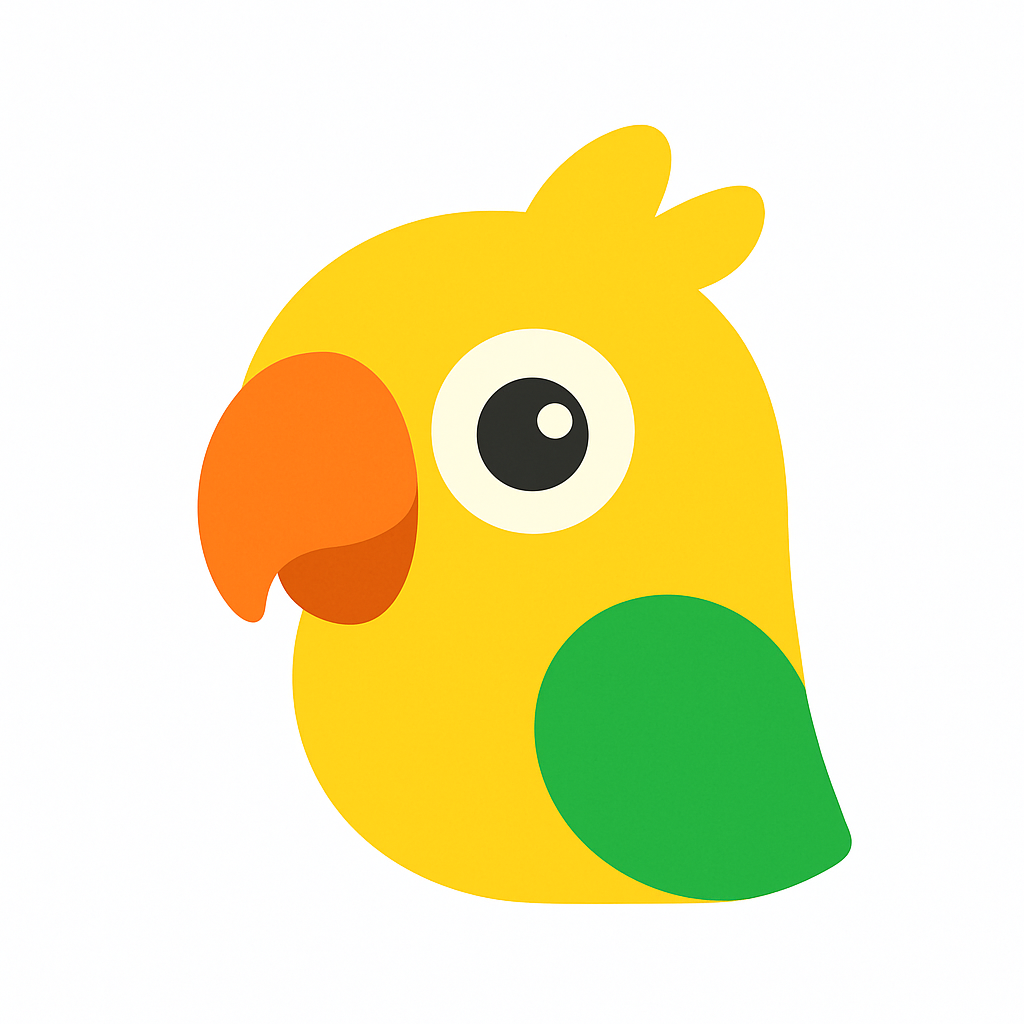
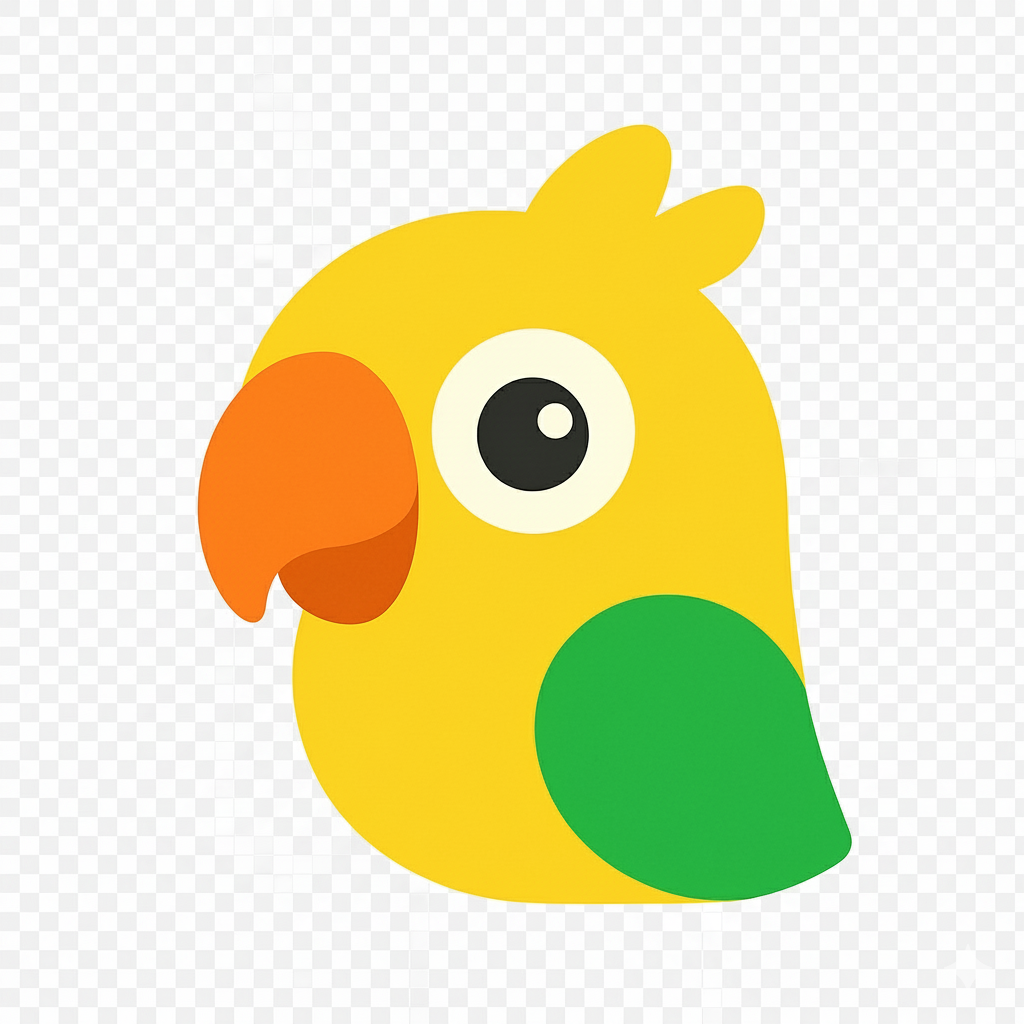
feat: 스몰토크 백엔드 연결

Changed region(s): [[0.625, 0.1875, 0.6562, 0.2188], [0.4062, 0.4375, 0.4375, 0.4688]]

diff --git a/src/styles/components/Header.module.scss b/src/styles/components/Header.module.scss
@@ -1,26 +1,46 @@
 @use "../global.scss";
 
 /* LeftLayout 헤더 */
-.logo {
-  width: 48px;
-  height: 48px;
-  background-image: url("../../asset/tropical-bird.png");
-  background-size: contain;
-  margin-bottom: var(--text-2xl);
-}
+.leftHeader {
+  position: relative;
 
-.title {
-  font-size: var(--text-3xl);
-  font-weight: var(--font-regular);
-
-  .userName {
-    font-weight: var(--font-extrabold);
+  .logo {
+    width: 48px;
+    height: 48px;
+    background-image: url("../../asset/tropical-bird.png");
+    background-size: contain;
+    margin-bottom: var(--text-2xl);
   }
-}
 
-.desc {
-  padding-top: var(--text-xs);
-  color: var(--text-secondary);
+  .title {
+    font-size: var(--text-3xl);
+    font-weight: var(--font-regular);
+
+    .userName {
+      font-weight: var(--font-extrabold);
+    }
+  }
+
+  .desc {
+    padding-top: var(--text-xs);
+    color: var(--text-secondary);
+  }
+
+  button {
+    position: absolute;
+    top: 0;
+    right: 0;
+    width: 48px;
+    height: 48px;
+    background-color: transparent;
+
+    svg {
+      width: 24px;
+      height: 24px;
+      color: #000000;
+    }
+  }
+
 }
 
 /* RightLayout 헤더 */

diff --git a/src/components/smalltalk/SmallTalkItem.jsx b/src/components/smalltalk/SmallTalkItem.jsx
@@ -1,16 +1,36 @@
 import React from 'react';
 import {desc, smallTalk} from '../../styles/components/SmallTalkItem.module.scss';
 import defaultIcon from '../../asset/tropical-bird.png';
+import dailyIcon from '../../asset/toss-sun.png';
+import creativeIcon from '../../asset/toss-idea.png';
+import thoughtIcon from '../../asset/toss-thought.png';
+import foodIcon from '../../asset/toss-food.png';
 
-const SmallTalkItem = () => {
+const SmallTalkItem = ({content, question, type}) => {
+
+
+
+    const topicStyles = {
+        DAILY: { icon: `${dailyIcon}`, color: '#FFF2E1' },
+        INTEREST: { icon: `${dailyIcon}`, color: '#E1F5F7' },
+        FOOD: { icon: `${foodIcon}`, color: '#FFE8F1' },
+        CREATIVE: { icon: `${creativeIcon}`, color: '#F2E8FF' },
+        THOUGHT: { icon: `${thoughtIcon}`, color: '#E8F7E1' },
+        DEFAULT: { icon:`${defaultIcon}`, color: '#FFF2E1' }
+    };
+
+    const currentStyle = topicStyles[type] || topicStyles.DEFAULT;
+    const icon = currentStyle.icon;
+
+
     return (
-        <>
+        <li style={{ backgroundColor: currentStyle.color }}>
             <i>
-                <img src={defaultIcon} alt={`트로피칼 새`}/>
+                <img src={icon} alt={`${type} icon`} />
             </i>
-            <p className={desc}>회의를 위한 주제 추천!</p>
-            <p className={smallTalk}>회의전 커피 한 잔 어떠세요?</p>
-        </>
+            <p className={desc}>{content}</p>
+            <p className={smallTalk}>{question}</p>
+        </li>
     );
 };
 

diff --git a/src/hooks/smalltalk/useSmalltalk.js b/src/hooks/smalltalk/useSmalltalk.js
@@ -1,0 +1,32 @@
+import {useCallback, useState} from "react";
+import {apiMethods} from "../../services/api.js";
+
+export const useSmalltalk = () => {
+    const [smallTalkData, setSmallTalkData] = useState([]);
+
+    const fetchSmalltalk = useCallback(async () => {
+        try {
+            const res = await apiMethods.get('/smalltalk');
+            if (res.data.success) {
+                const data = res.data.data.topics || [];
+                setSmallTalkData(data);
+            } else {
+                console.warn('API 호출 실패 메시지:', res.data.message);
+            }
+        } catch (err) {
+            if (err.response) {
+                const { status, data } = err.response;
+                if (status === 401) {
+                    console.warn('로그인 필요:', data?.message);
+                } else {
+                    console.error('서버 에러:', status, data?.message);
+                }
+            } else {
+                console.error('네트워크 에러 또는 요청 실패', err);
+            }
+        }
+    }, []);
+
+    return { smallTalkData, fetchSmalltalk };
+};
+

diff --git a/src/layouts/LeftLayout.jsx b/src/layouts/LeftLayout.jsx
@@ -1,15 +1,33 @@
-import React from 'react';
+import React, {useEffect} from 'react';
 import LeftHeader from "../components/common/LeftHeader.jsx";
-import {leftLayout, container} from '../styles/layouts/Layout.module.scss';
+import {container, leftLayout} from '../styles/layouts/Layout.module.scss';
 import SmallTalkList from "../components/smalltalk/SmallTalkList.jsx";
 import Tips from "../components/smalltalk/Tips.jsx";
+import {useSmalltalk} from "../hooks/smalltalk/useSmalltalk.js";
+import useAuthStore from "../store/authStore.js";
 
 const LeftLayout = () => {
+    const {smallTalkData, fetchSmalltalk} = useSmalltalk();
+    const nickname = useAuthStore(state => state.user?.nickname);
+
+    useEffect(() => {
+        fetchSmalltalk();
+        const intervalId = setInterval(() => {
+            try {
+                fetchSmalltalk();
+                console.log("새로운 주제 로드!");
+                console.log(smallTalkData)
+            } catch (e) {
+                console.error("fetch 실패:", e);
+            }}, 60000);
+        return () => clearInterval(intervalId);
+    }, [fetchSmalltalk]);
+
     return (
         <div className={leftLayout}>
-            <LeftHeader />
+            <LeftHeader name={nickname}/>
             <div className={container}>
-                <SmallTalkList />
+                <SmallTalkList talks= {smallTalkData}/>
                 <Tips />
             </div>
         </div>

diff --git a/src/components/smalltalk/SmallTalkList.jsx b/src/components/smalltalk/SmallTalkList.jsx
@@ -2,18 +2,16 @@ import React from 'react';
 import SmallTalkItem from "./SmallTalkItem.jsx";
 import { container } from "../../styles/components/SmallTalkList.module.scss";
 
-const SmallTalkList = () => {
+const SmallTalkList = ({talks}) => {
     return (
         <ul className={container}>
-            <li>
-                <SmallTalkItem />
-            </li>
-            <li>
-                <SmallTalkItem />
-            </li>
-            <li>
-                <SmallTalkItem />
-            </li>
+            {
+                talks.map(talk =>
+                    <>
+                    <SmallTalkItem key={talk.id} type={talk.topicType} content={talk.topicContent} question={talk.exampleQuestion}/>
+                    </>
+                )
+            }
         </ul>
     );
 };

diff --git a/src/components/common/LeftHeader.jsx b/src/components/common/LeftHeader.jsx
@@ -1,14 +1,18 @@
 import React from 'react';
 import styles from '../../styles/components/Header.module.scss';
+import { HiLogout } from "react-icons/hi";
+import {FiLogOut} from "react-icons/fi";
 
-const {logo, title, userName, desc} = styles;
+const {logo, title, userName, desc, leftHeader} = styles;
 
-const LeftHeader = () => {
+const LeftHeader = ({name}) => {
+    console.log()
     return (
-        <header>
+        <header className={leftHeader}>
             <h1 className={logo}></h1>
-            <h2 className={title}>안녕하세요, <span className={userName}>트로피칼</span>님</h2>
-            <p className={desc}>햄보르기니님의 캘린터, 일기, 버킷리스트, 투두리스트 기반으로 스몰토크 주제를 추천드리겠습니다.</p>
+            <h2 className={title}>안녕하세요, <span className={userName}>{name}</span>님</h2>
+            <p className={desc}>{name}님의 캘린터, 일기, 버킷리스트, 투두리스트 기반으로 스몰토크 주제를 추천드리겠습니다.</p>
+            <button><HiLogout /></button>
         </header>
     );
 };

diff --git a/src/styles/components/SmallTalkList.module.scss b/src/styles/components/SmallTalkList.module.scss
@@ -3,12 +3,13 @@
 .container {
   width: 100%;
   display: flex;
+  max-height: 450px;
   flex-direction: column;
   gap: var(--text-xs);
+  overflow-y: auto;
 
   li{
     padding: var(--text-xs);
-    background-color: var(--gray);
     border-radius: var(--text-base) var(--text-base)  0 var(--text-base);
   }
 }

diff --git a/src/styles/layouts/Layout.module.scss b/src/styles/layouts/Layout.module.scss
@@ -21,7 +21,6 @@
     gap: 0;
   }
   .container {
-    overflow-y: auto;
     display: flex;
     flex-direction: column;
     gap: 24px;